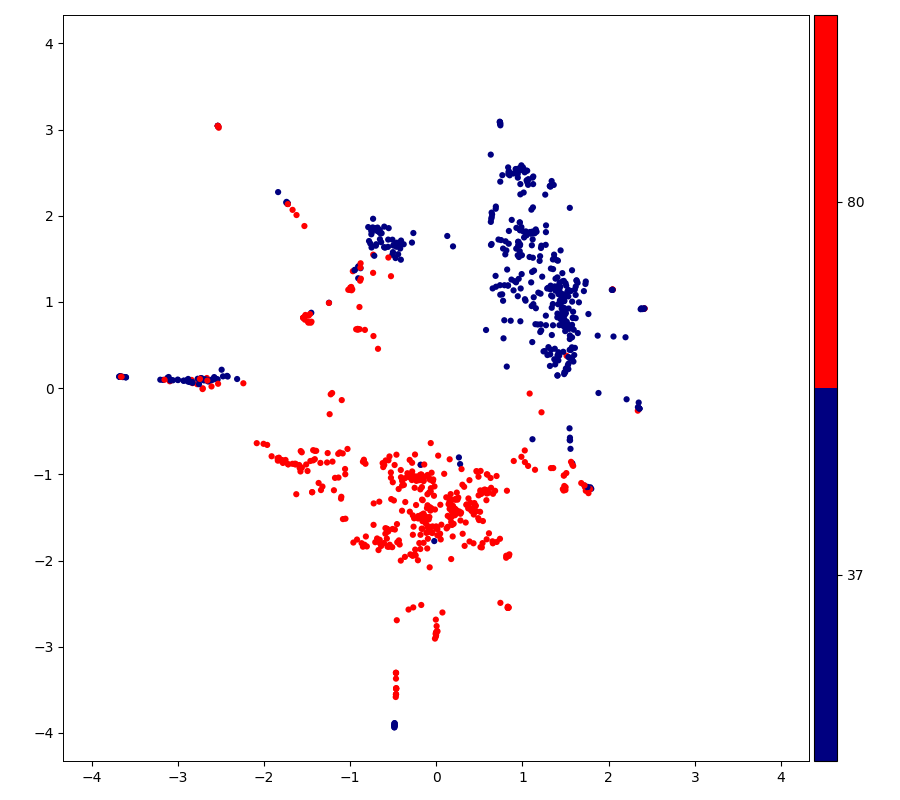
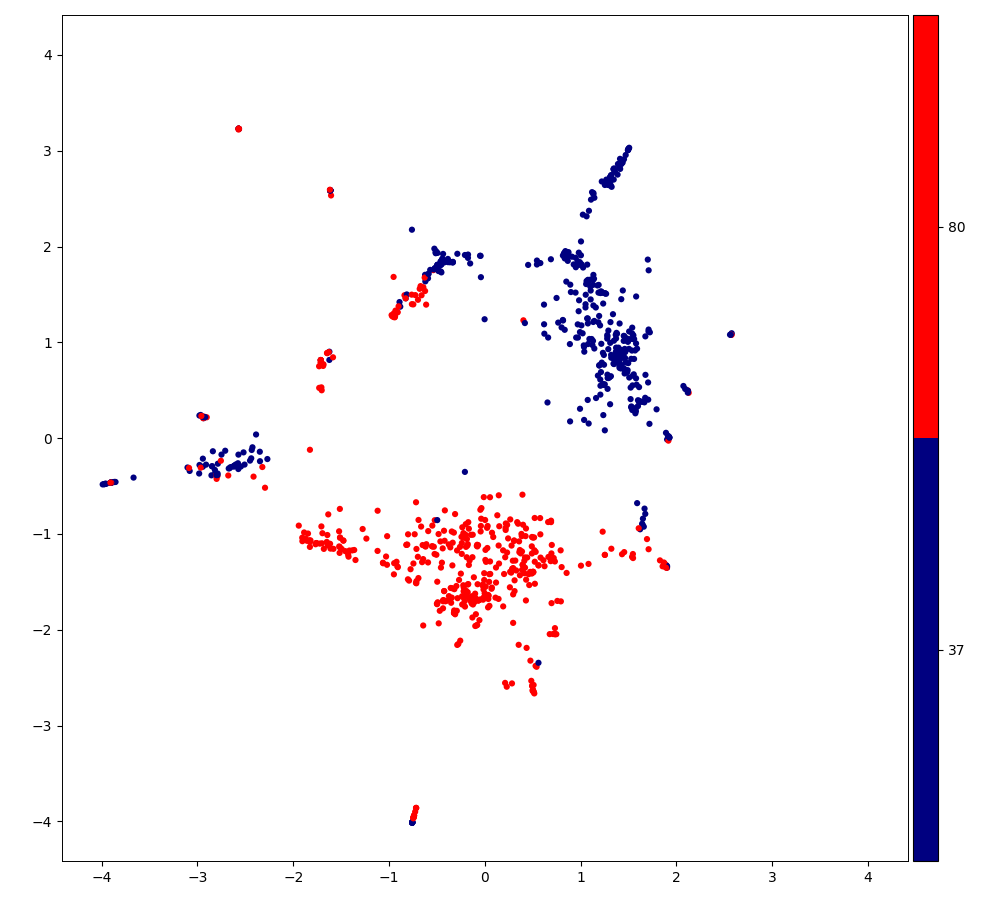
Added unified plots.

diff --git a/scripts/negative_test.py b/scripts/negative_test.py
@@ -17,7 +17,7 @@ data = {
         'proteomes': ['UP000000798', 'UP000008183', 'UP000001974_273057'],
         'temperature_labels': [80, 80, 80],
         'FASTA': 'data/cluster_tests/003/FASTA/003.fasta',
-        'embeddings': 'data/cluster_tests/003/EMB_ESM1b/'
+        'embeddings': 'data/cluster_tests/003/EMB_ESM1b'
     },
     '004': {
         'X': [],
@@ -33,6 +33,7 @@ proteome_files_dir = 'data/proteomes/'
 visualisation_file_path = "data/visualisation/"
 
 keys = ['003', '004']
+
 # Species were set 'empirically'
 species = [['AQUAE', 'SACS2', 'THEMA'], ['9EURY', 'ECOLI', 'NITMS']]
 
@@ -45,5 +46,5 @@ for i in range(len(keys)):
 
     filter_sequences(data, keys[i], data[keys[i]]['embeddings'])
 
-    visualise_PCA_species(data, keys[0], visualisation_file_path+keys[i]+"_PCA.png", species[i])
-    visualise_MDE_species(data, keys[0], visualisation_file_path+keys[i]+"_MDE.png")
+    visualise_PCA_species(data, keys[i], visualisation_file_path+keys[i]+"_PCA.png", species[i])
+    visualise_MDE_species(data, keys[i], visualisation_file_path+keys[i]+"_MDE.png")
